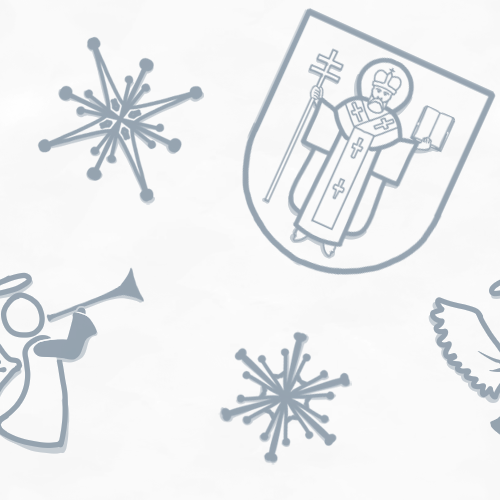
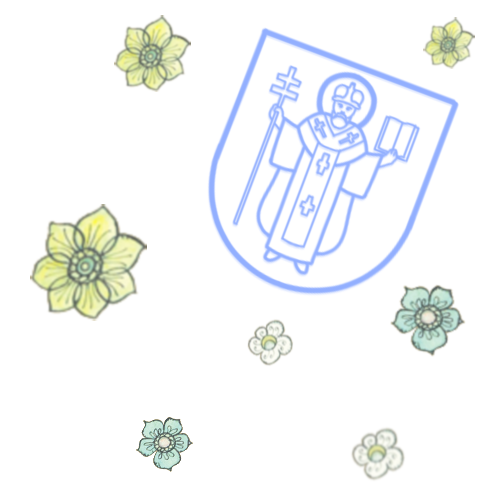
poster reworked

diff --git a/css/styles.css b/css/styles.css
@@ -248,7 +248,7 @@ body, html {
     min-width: 100vw;
     background: black;
     background-image: url('/img/poster-background.png');
-    background-color: rgba(66, 124, 199, 0.877);
+    background-color: rgba(66, 124, 199, 0.37);
     background-size: 200px;
 }
 
